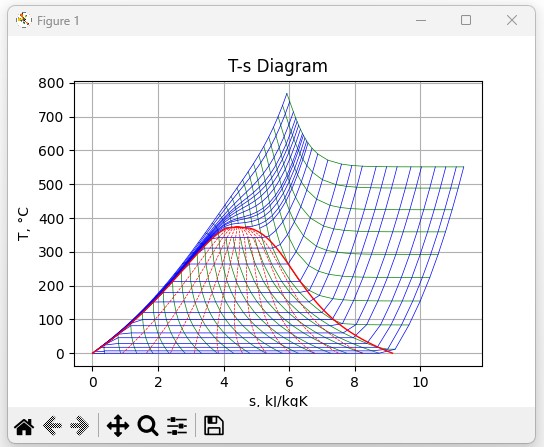
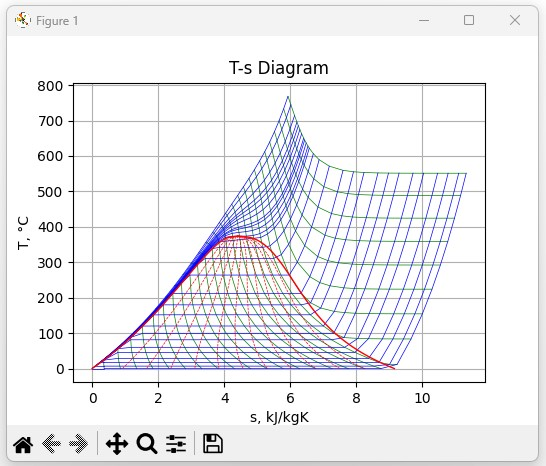
seuif97 in Rust

diff --git a/demo_using_lib/Diagram_T-S.py b/demo_using_lib/Diagram_T-S.py
@@ -32,18 +32,31 @@ Pt = 611.657e-6
 isoh = np.linspace(100, 3600, 27)
 isop = np.array([Pt, 0.001, 0.002, 0.004, 0.01, 0.02, 0.05, 0.1, 0.2, 0.5,
                  1.0, 2.0, 5.0, 10.0, 15, 20.0, 22, 25, 28, 30, 35, 40, 45, 50.0, 60, 80, 100.0])
+
+# Calculating isoenthalpic lines isoh(200, 3600)kJ/kg
 for h in isoh:
     T = np.array([ph(p, h, OT) for p in isop])
     S = np.array([ph(p, h, OS) for p in isop])
+    if any(np.isnan(S)):
+        i_nan = np.where(np.isnan(S))
+        il = (list(i_nan[0]))
+        T = np.delete(T, il)
+        S = np.delete(S, il)
     plt.plot(S, T, 'g', lw=0.5)
 
+# Calculating isobar lines  isop(611.657e-6,100)MPa
 for p in isop:
     T = np.array([ph(p, h, OT) for h in isoh])
     S = np.array([ph(p, h, OS) for h in isoh])
+    if any(np.isnan(S)):
+        i_nan = np.where(np.isnan(S))
+        il = (list(i_nan[0]))
+        T = np.delete(T, il)
+        S = np.delete(S, il)
     plt.plot(S, T, 'b', lw=0.5)
 
 # saturate water to wet steam
-for p in [ Pt,0.001, 0.002]:
+for p in [Pt, 0.001, 0.002]:
     s = ph(p, 100, OS)
     t = ph(p, 100, OT)
     s_sat_water = px(p, 0.0, OS)
